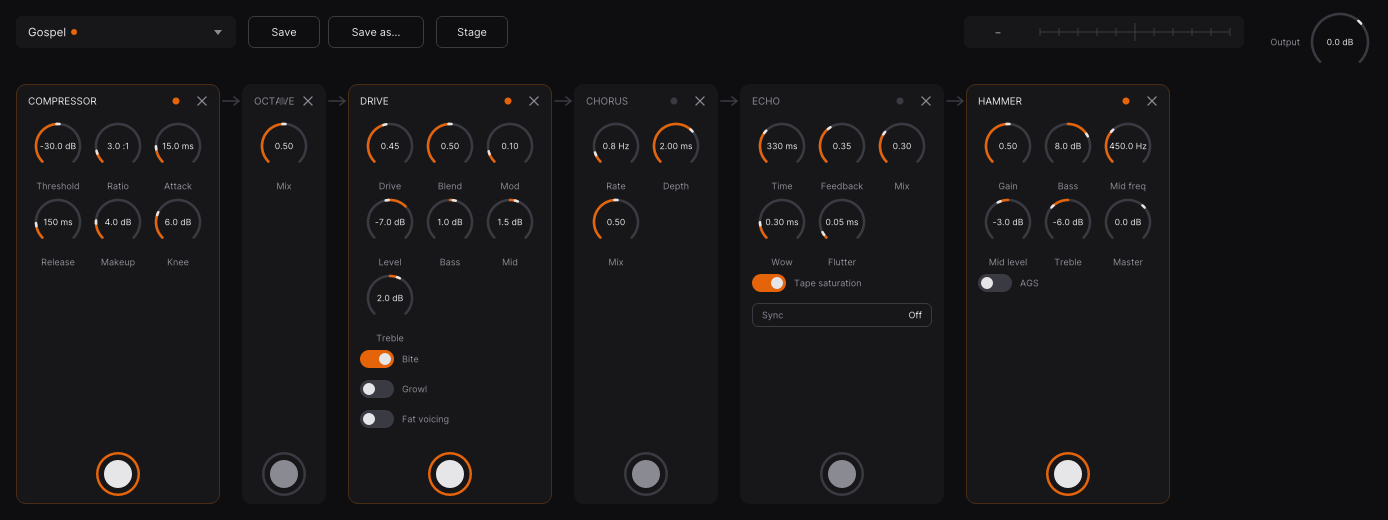
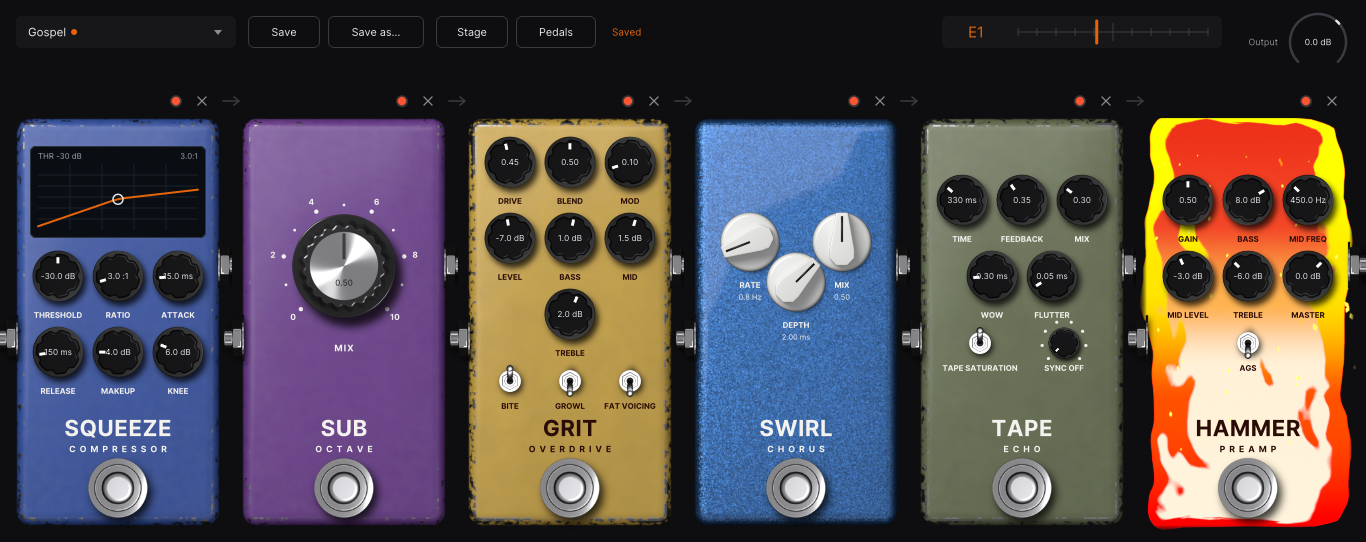
feat(levita): show the new pedal board and the DAW in real captures
The board and stage captures are new renders of the plugin, now with a
skin per pedal. A new section on the Levita page shows the DAW: its
tracks, and the pedal board open inside it.

diff --git a/app/[locale]/(site)/products/levita/page.tsx b/app/[locale]/(site)/products/levita/page.tsx
@@ -193,6 +193,22 @@ export default async function LevitaPage({ params }: PageProps) {
         </div>
       </section>
 
+      <section className="section" aria-labelledby="daw-title">
+        <div className="wrap split">
+          <div className="stack reveal" style={{ "--stack-gap": "14px" } as React.CSSProperties}>
+            <span className="label label--subtle">{t("daw.label")}</span>
+            <h2 id="daw-title" className="display display--md" style={{ maxWidth: "14ch" }}>
+              <Dotted>{t("daw.title")}</Dotted>
+            </h2>
+            <p className="lead">{t("daw.body")}</p>
+          </div>
+          <div className="stack reveal" style={{ "--reveal-i": 1, "--stack-gap": "20px" } as React.CSSProperties}>
+            <BoardFigure shot={LEVITA_SHOTS.daw} alt={t("daw.alt")} caption={t("daw.caption")} mode="fit" />
+            <BoardFigure shot={LEVITA_SHOTS.dawRig} alt={t("daw.rigAlt")} caption={t("daw.rigCaption")} mode="fit" />
+          </div>
+        </div>
+      </section>
+
       <section className="band levita-plan" data-surface="inverse" aria-labelledby="roadmap-title">
         <div className="wrap levita-plan__grid">
           <div className="reveal">

diff --git a/content/levita.ts b/content/levita.ts
@@ -107,8 +107,14 @@ export const LEVITA_ROADMAP = [
   { id: "windows", stage: "planned" },
 ] as const;
 
-/** Real renders of the plugin, written by the product's own preview tool. */
+/**
+ * Real pictures of the product. `board` and `stage` are renders of the plugin,
+ * written by its own preview tool; `daw` and `dawRig` are captures of the DAW
+ * window, cut to its main panel.
+ */
 export const LEVITA_SHOTS = {
-  board: { src: "/images/products/levita/board.png", width: 1388, height: 520 },
-  stage: { src: "/images/products/levita/stage.png", width: 1388, height: 520 },
+  board: { src: "/images/products/levita/board.png", width: 1366, height: 542 },
+  stage: { src: "/images/products/levita/stage.png", width: 1366, height: 542 },
+  daw: { src: "/images/products/levita/daw.png", width: 1478, height: 1038 },
+  dawRig: { src: "/images/products/levita/daw-rig.png", width: 1478, height: 1038 },
 } as const;
